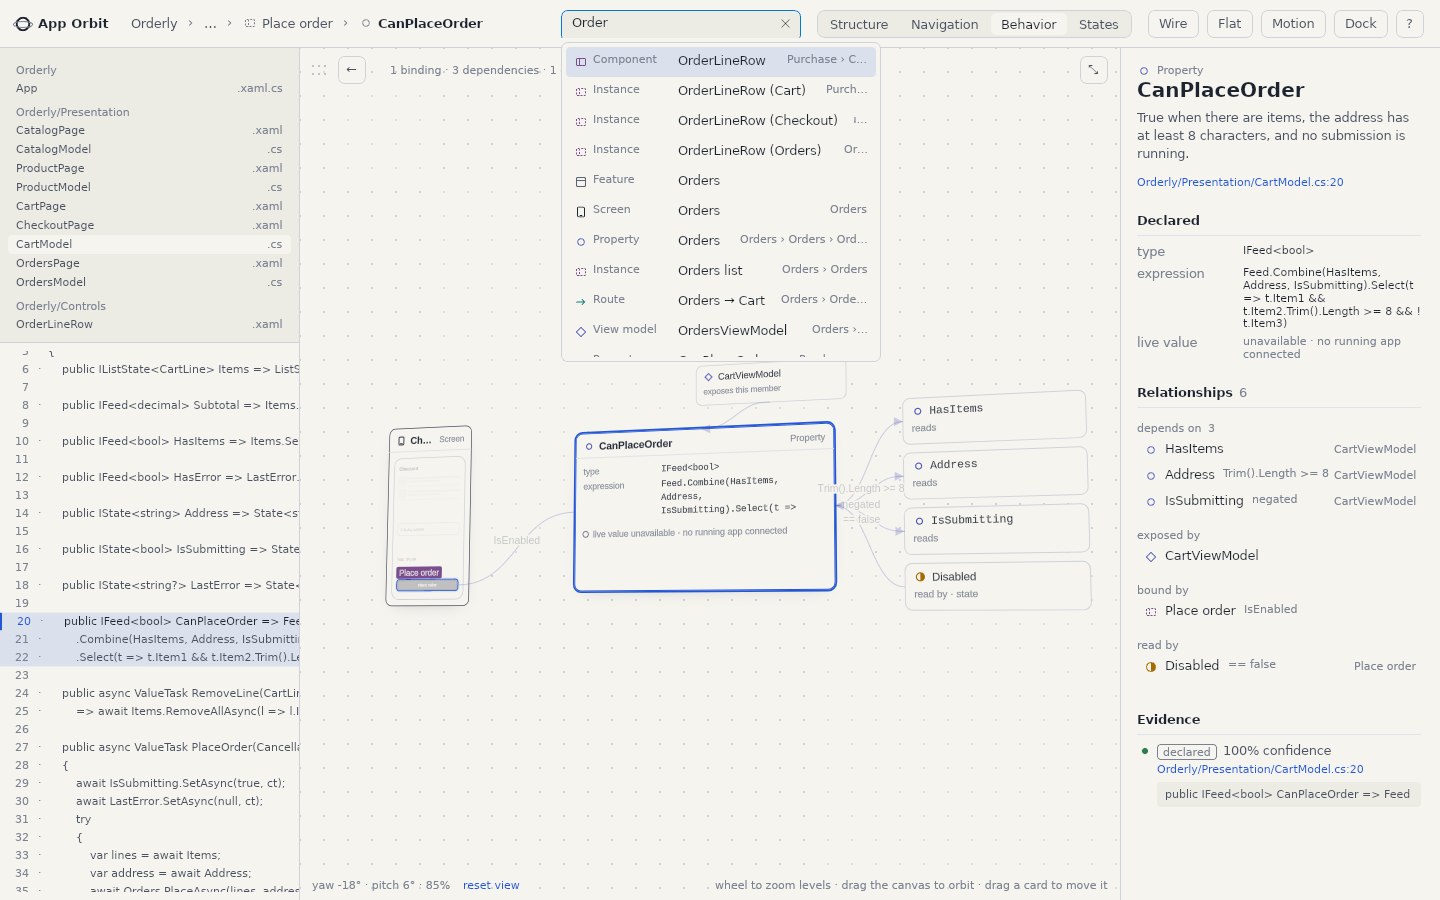
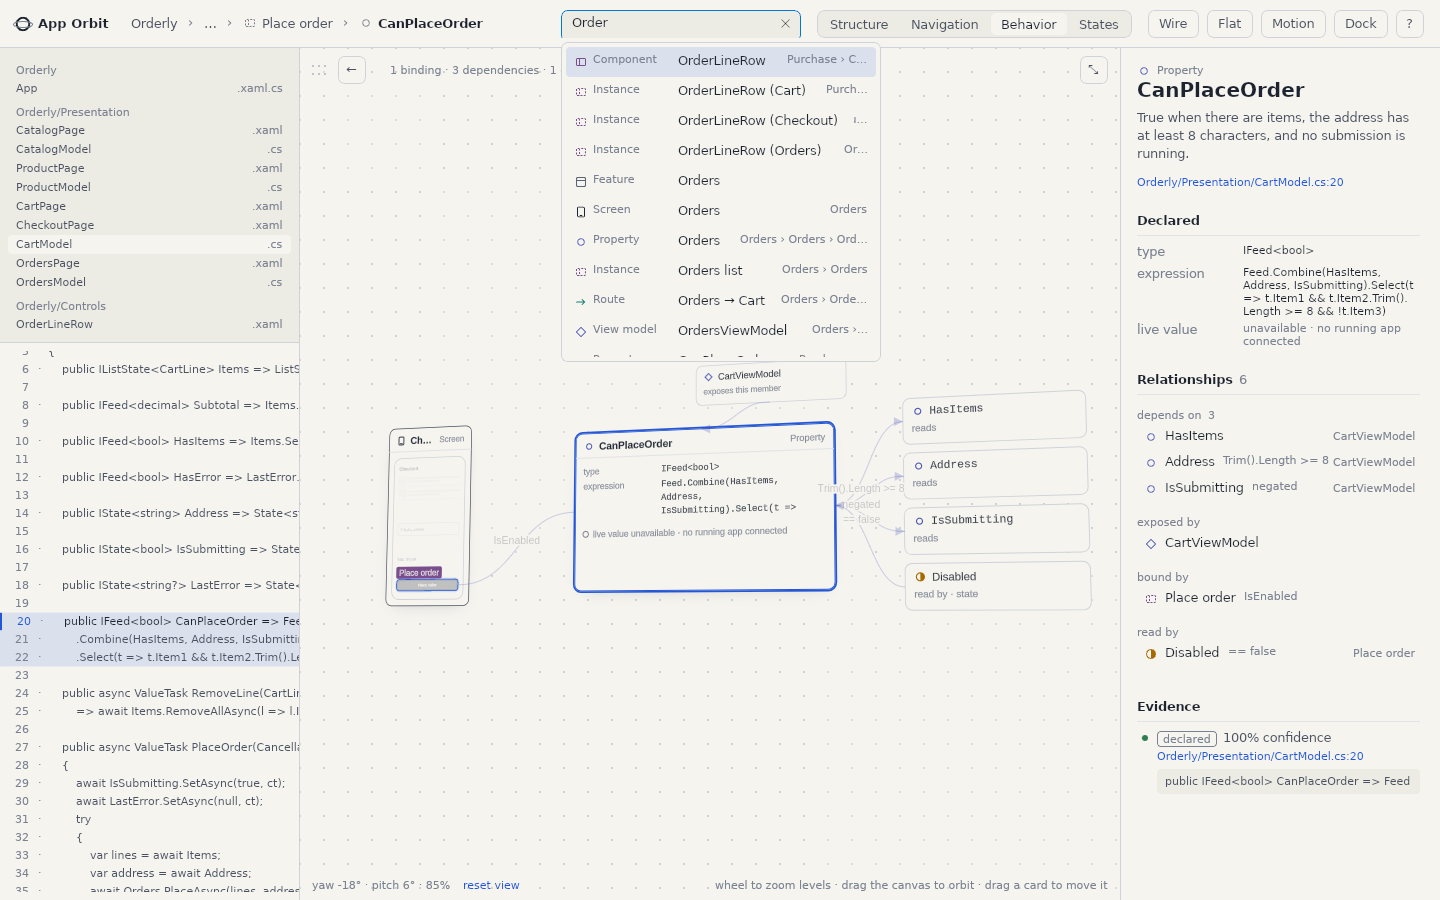
chore(app-orbit): pre-demo audit pass and demo cue card
- Stack: Uno.Sdk 6.7.30 is still the newest stable; SkiaSharp 4 deferred.
- uno-platform-agent conformance checked: single project, central package
  management, renderer split from SKCanvasElement, reused paints,
  depth-sorted paint order, timer-driven animation.
- Remove the unused ApplicationExecutionState alias from GlobalUsings.
- Inspector: dotted class names wrap at the namespace dot instead of
  mid-word (zero-width break after each dot).
- SPEC: second audit pass recorded. DEMO.md: pre-flight checklist, beat
  script, segues, recovery moves and likely questions.
- Debug and Release build with 0 warnings; journey 73/73 light and dark.

Claude-Session: https://claude.ai/code/session_017pPP6jnh4C2bUHUgnHGYqQ

diff --git a/AppOrbit/App/AppOrbit/Shell/ShellPage.Inspector.cs b/AppOrbit/App/AppOrbit/Shell/ShellPage.Inspector.cs
@@ -151,7 +151,8 @@ public sealed partial class ShellPage
         var row = kv.RowDefinitions.Count;
         kv.RowDefinitions.Add(new RowDefinition { Height = GridLength.Auto });
         var kt = Text(k, "T12", "Ink3"); Grid.SetRow(kt, row); kv.Children.Add(kt);
-        var vt = Text(v, "Mono11", valueBrush, wrap: true); Grid.SetRow(vt, row); Grid.SetColumn(vt, 1); kv.Children.Add(vt);
+        // a zero-width space after each dot: dotted names wrap at a namespace boundary, never mid-word
+        var vt = Text(v.Replace(".", ".\u200B"), "Mono11", valueBrush, wrap: true); Grid.SetRow(vt, row); Grid.SetColumn(vt, 1); kv.Children.Add(vt);
     }
 
     private Button RelRow(Node other, Edge? e, string ctx)

diff --git a/AppOrbit/App/AppOrbit/GlobalUsings.cs b/AppOrbit/App/AppOrbit/GlobalUsings.cs
@@ -3,5 +3,4 @@ global using Microsoft.Extensions.Logging;
 global using Microsoft.UI.Xaml;
 global using Microsoft.UI.Xaml.Controls;
 global using Microsoft.UI.Xaml.Navigation;
-global using ApplicationExecutionState = Windows.ApplicationModel.Activation.ApplicationExecutionState;
 global using Microsoft.UI.Xaml.Automation;

diff --git a/AppOrbit/App/DEMO.md b/AppOrbit/App/DEMO.md
@@ -1,0 +1,61 @@
+# App Orbit: demo cue card
+
+About five minutes. Say the line, then do the action. Never talk while typing.
+
+**Spine (if you lose your place):** App Orbit lays an app's structure out in space, so you can see how it fits together before you read the code.
+
+## Before you go on
+
+```powershell
+git pull
+cd AppOrbit\App
+dotnet run --project AppOrbit\AppOrbit.csproj -c Release -f net10.0-desktop
+```
+
+- [ ] Run **Release**. A Debug build waits for the Hot Design dev server when started outside the IDE.
+- [ ] Rehearse once on the demo machine and its display. Every check so far ran on Linux.
+- [ ] Display scaling leaves at least 1100 × 640 for the window, which is the app's minimum size.
+- [ ] The app remembers its last state. Reset it before going on:
+  - Structure lens selected (press `1`).
+  - Wire, Flat, Dock and Motion all off.
+  - Click **reset layout** at the bottom of the viewer, if it shows.
+  - Press `0` to reset the camera, then go up to **Orderly** with `Backspace`.
+
+## Beats
+
+| # | Say | Do | Point at |
+|---|---|---|---|
+| 1 | "This is App Orbit. It reads an app and lays its structure out in space." | Nothing. Let it sit. | The three feature plates and OrderLineRow underneath |
+| 2 | "It's a real 3D camera, so you can turn the app around." | Drag the empty canvas left and right. | The yaw and pitch readout, bottom left |
+| 3 | "Zooming changes the level of detail, it doesn't just magnify." | Wheel over **Purchase**, then over **Checkout**. | The Checkout screen card |
+| 4 | "The Behavior lens wires every control to the view model member it binds to." | Press `3`. | The binding lines into CartViewModel, and its **shared** badge |
+| 5 | "The right column is the text version of the scene, and every claim points at the line it came from." | Scroll the inspector to **Evidence**. | **declared, 100%** and the source pane on the left |
+| 6 | "States show what the screen can be in." | Press `4`. | Idle, Submitting, Error |
+| 7 | "Search jumps anywhere. A shared component shows every place it's used." | Press `/`. Type `OrderLineRow`. Press Enter. | The three uses across Cart, Checkout and Orders |
+| 8 | "One relationship isn't written anywhere in source, so it's marked inferred and explains why." | Press `/`. Type `CartCount`. Press Enter. | The dashed line, and **inferred, 70%** in Evidence |
+| 9 | "When you want to read, dock the viewer and the inspector takes the room." | Drag the viewer by its top bar to the bottom right. | The inspector widening |
+| 10 | "It's an Uno Platform desktop app: one XAML shell, one SkiaSharp canvas, and every layout checked against the web prototype." | Press `D` to bring the viewer back. | The whole window |
+
+**Close:** "That's App Orbit. Happy to take questions."
+
+## Segues
+
+- 3 → 4: "So that's where things live. Here's how they talk to each other."
+- 7 → 8: "Everything so far is declared in source. One thing isn't."
+- 8 → 9: "That's a lot to read, so let's make room for it."
+
+## If something goes wrong
+
+| Problem | Do | Say |
+|---|---|---|
+| The wheel overshoots a level | Press `Backspace`, or click the card and press Enter | "Let me step back one level." |
+| The camera ends up at a strange angle | Press `0` | "Back to the default view." |
+| The dock drag misses | Press `D` | "There's a key for that." |
+| A card gets dragged by accident | Click **reset layout** | "Cards can be moved; this puts them back." |
+| Anything else | Press `Backspace` until you're back at **Orderly** and pick up at the next beat | Use the spine line |
+
+## Likely questions
+
+- **"Does it read my app?"** "Today it reads a hand-authored graph of a sample app. Generating that graph from source is the next step."
+- **"Is that a live value?"** "Not yet. It's read-only, and the inspector says so: no running app connected."
+- **"How do you know the layout is right?"** "The web prototype's layout code runs over every case, and the Uno app is checked against it: 888 cases, zero differences."

diff --git a/AppOrbit/App/SPEC.md b/AppOrbit/App/SPEC.md
@@ -322,6 +322,17 @@ disposal, `winui-xaml` for the shell.
 | Localization | user-visible text is inline, no `x:Uid` | deliberate for the prototype port; a localization pass is a separate task |
 | Runtime verify | `uno-verify` needs the App MCP, absent in this container | the journey runner and screenshots stand in; a Windows run is still owed |
 
+Second pass, before the first demo (`uno-audit` with `uno-platform-agent`):
+
+| Area | Finding | Resolution |
+|---|---|---|
+| Stack | `6.7.30` is still the newest stable Uno.Sdk; SkiaSharp 4 is stable | Uno.Sdk unchanged; SkiaSharp 4 deferred until after the demo (a graphics-library swap needs its own pass) |
+| Project setup | single project, `UnoSingleProject`, central package management, renderer split from the `SKCanvasElement`, reused paints, depth-sorted paint order, timer-driven animation | conforms to `uno-platform-agent` |
+| TFMs | desktop only, no base `net10.0` | deliberate: one target, nothing shared with a class library |
+| Hygiene | an unused `ApplicationExecutionState` alias left from the template in `GlobalUsings.cs` | removed |
+| Inspector | dotted class names broke mid-word (`CheckoutP` / `age`), as in the prototype | a zero-width break after each dot: names wrap at the namespace boundary |
+| Build and journey | Debug and Release, light and dark | 0 warnings; 73/73 in both themes |
+
 ## What was learned building it
 
 - A page's `Resources` indexer does not see App.xaml or the theme entries; code-behind resolves
